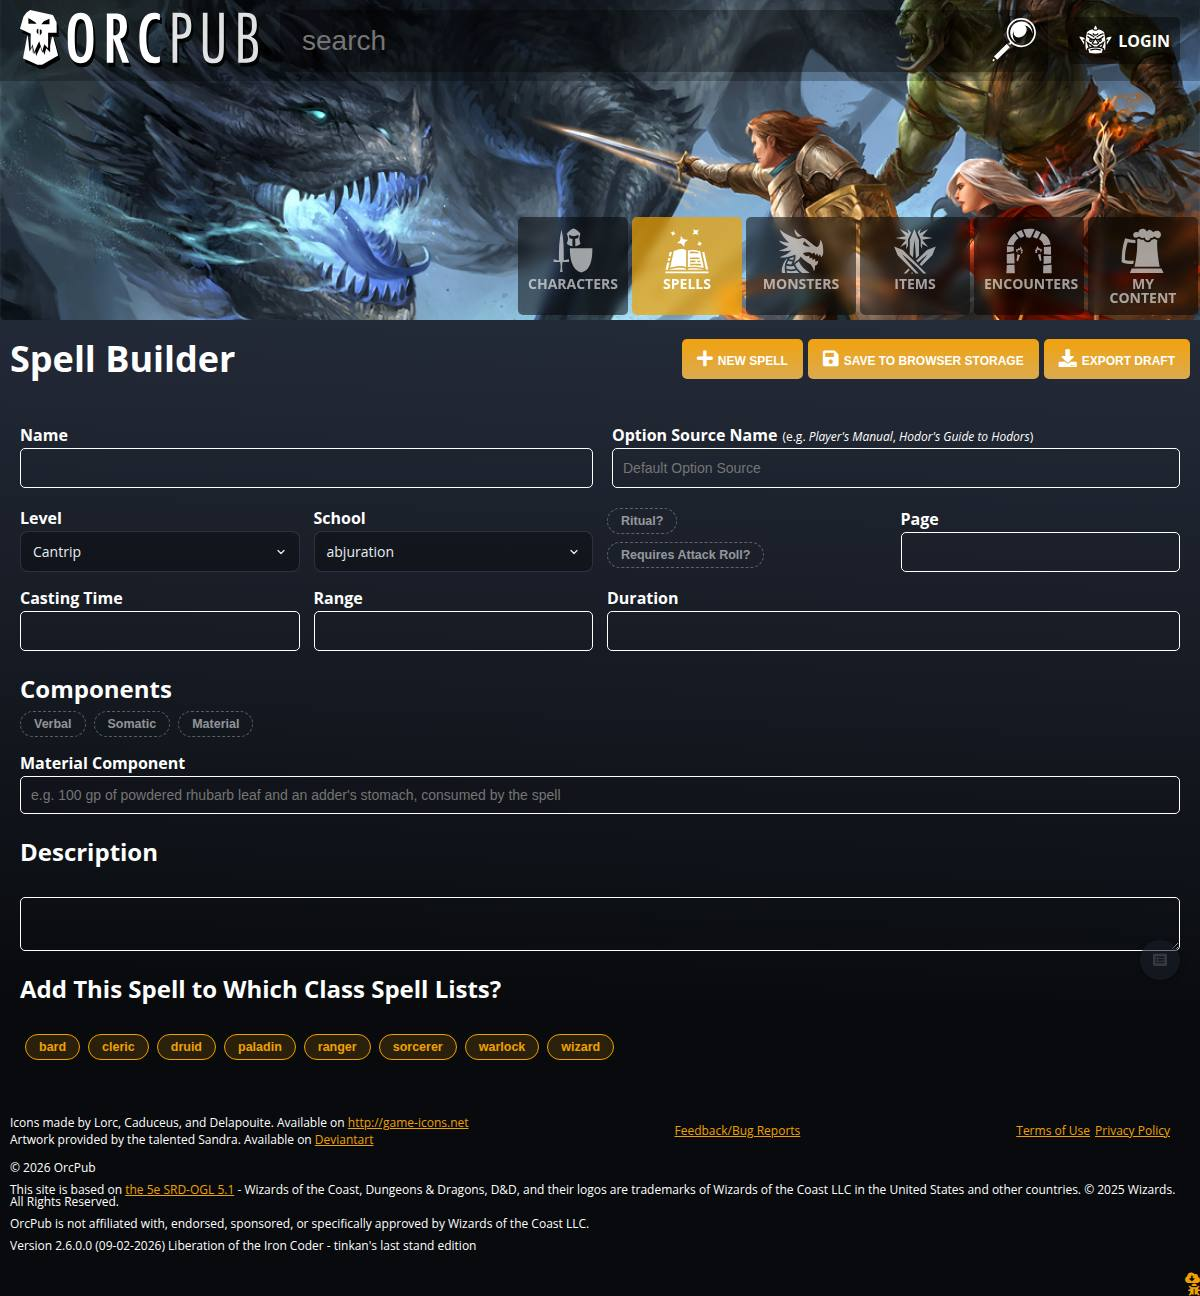
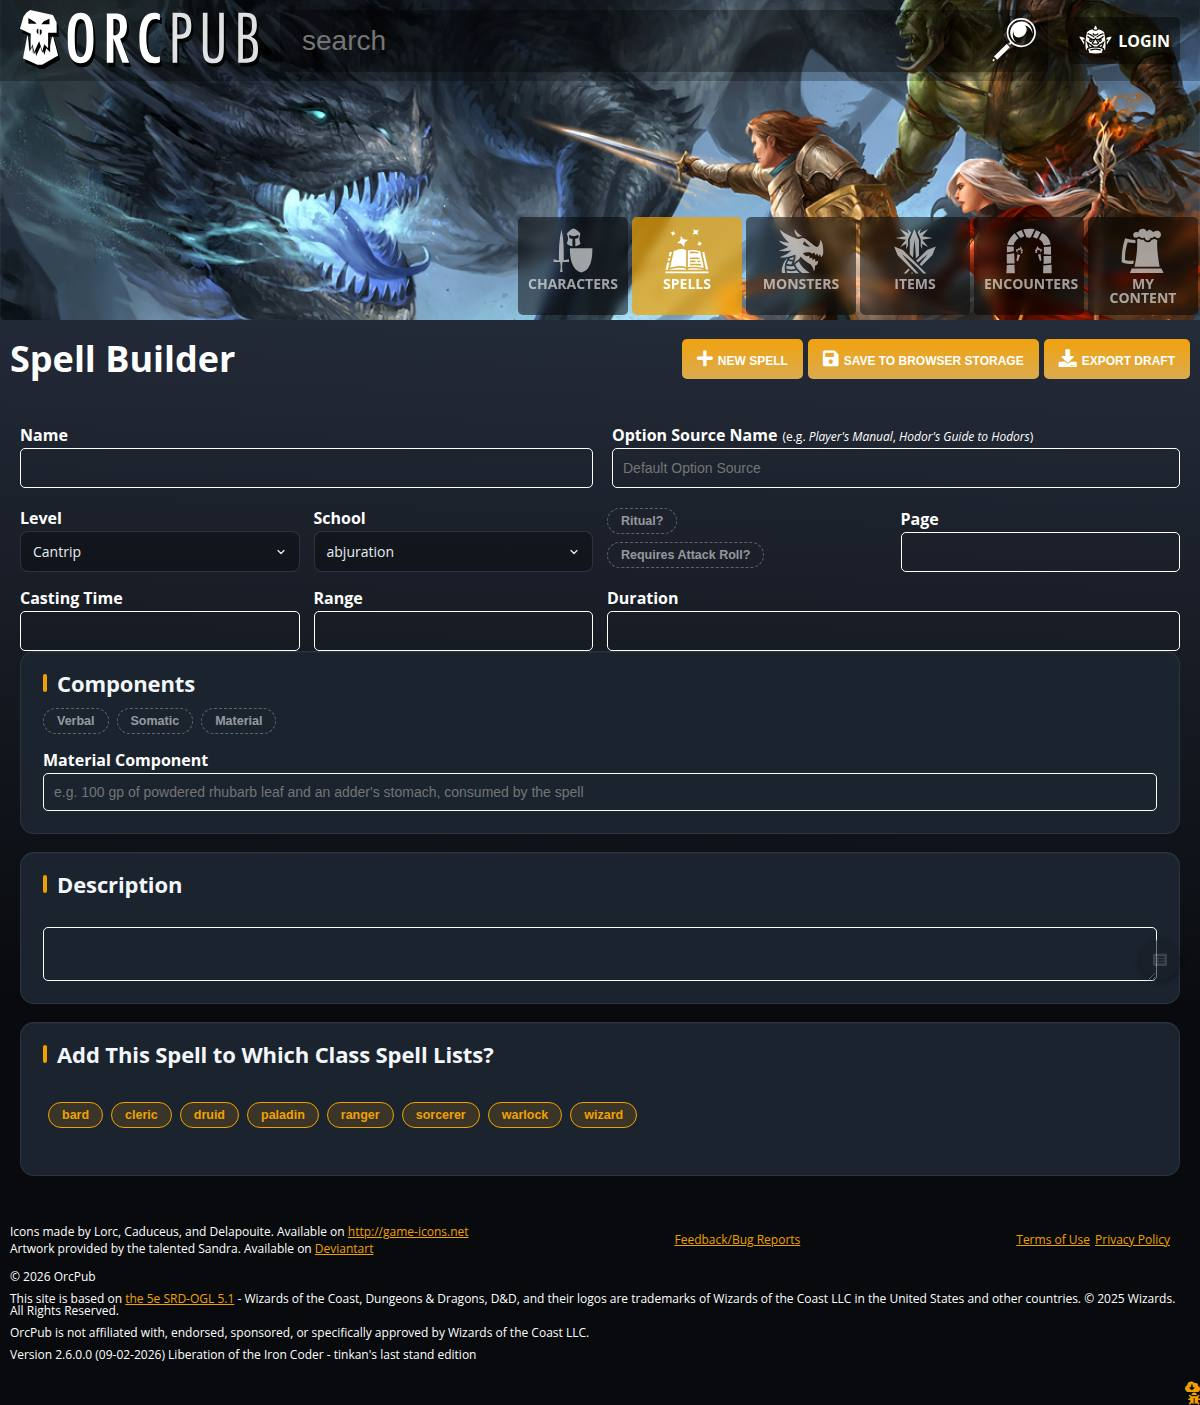
Section cards from the OMV suggestion — ported, not recreated
The suggested spell-builder page builds the form out of section cards: a flat
elevated panel per section with an amber accent tab beside the title. OMV
already ships exactly that as option_menu_views/card, so the CSS is ported
verbatim (accent as a var, as with select-menu) and a titled :section renders
through it. No schema change — :section "Components" already existed.

The untitled lead group stays plain. In the mock the identity and stat fields
sit above the cards, and wrapping those too would make the form a stack of
boxes.

The chrome was deliberately NOT copied: sticky toolbar, header band with the
name as a display input, summary line, "Save target" badge, info popovers, the
grid/pills layout switch. Those are page-level design decisions that belong
with the redesign branch rather than being smuggled in through a form
framework.

It costs height, which the mock proposes on purpose: spell 1242px -> 1405px on
desktop, 1742px -> 1899px at 390px.

Two process notes:

- lein garden FAILED and I read past it. The command was piped through tail -1,
  so "Subprocess failed (exit code: 1)" scrolled by while fig:build and the
  entire e2e suite then ran green against STALE CSS — the cards did not render
  and every test still passed. Garden's exit code has to be checked, or a CSS
  change can look like it works while never having compiled.
- The failure itself: [:.bf-section:not(.opt-section)] is not valid Clojure —
[…]

diff --git a/test/e2e/lib.js b/test/e2e/lib.js
@@ -61,7 +61,9 @@ async function controlFor(page, labelPrefix) {
     for (const c of document.querySelectorAll('input, select, textarea, .select-menu-btn')) {
       let n = c;
       for (let k = 0; k < 6 && n; k++, n = n.parentElement) {
-        const d = n.querySelector('.f-w-b');
+        // .opt-section-title is a section heading (the ported OMV card); a field whose only
+        // label is its section's title — Description — is found through it.
+        const d = n.querySelector('.f-w-b, .opt-section-title');
         if (d && d.textContent.trim()) {
           if (norm(d.textContent).startsWith(want)) return c;
           break;                       // this control's label is not the one we want

diff --git a/docs/kb/frontend-redesign-parallel-work.md b/docs/kb/frontend-redesign-parallel-work.md
@@ -197,6 +197,35 @@ field to offer a `nil` option, which is exactly the three-state tags.
 - Four separate control-count metrics had to learn `.select-menu-btn`. **That is the fourth time a
   metric here missed a representation change**; the pattern is now explicit enough to expect.
 
+### Section cards — `option_menu_views/card`, done 2026-09-06
+
+A suggested spell-builder page (an OMV-centric mock) builds the whole form out of **section cards**:
+a flat elevated panel per section with an amber accent tab beside the title. OMV already ships that
+as `card` → `.opt-section` / `.opt-section-head` / `.opt-section-accent` / `.opt-section-title`, so
+the CSS is **ported verbatim** (accent as a var, as before) and a titled `:section` renders through
+it. No schema change: `:section "Components"` already existed.
+
+The untitled lead group stays plain. In the mock the identity and stat fields sit above the cards,
+and wrapping those too would make the form a stack of boxes.
+
+**The chrome was deliberately not copied** — sticky toolbar, header band with the name as a display
+input, summary line, "Save target" badge, info popovers, the grid/pills layout switch. Those are
+page-level design decisions that belong with the redesign branch, not smuggled in through a form
+framework.
+
+It costs height: the spell form went 1242px → **1405px** desktop, 1742px → **1899px** at 390px.
+That is the cards' padding and margins, and it is the trade the mock proposes on purpose.
+
+Two process notes from doing it:
+
+- **`lein garden` failed and I read past it.** The command was piped through `tail -1`, so
+  "Subprocess failed (exit code: 1)" scrolled by while `fig:build` and the whole e2e suite ran green
+  against **stale CSS** — the cards simply did not render and every test still passed. Garden's exit
+  code needs checking, or a CSS change can appear to work while never having compiled.
+- The failure itself: `[:.bf-section:not(.opt-section)]` is not valid Clojure — the reader takes
+  `.opt-section` inside parens for a member expression. A `:not()` selector needs
+  `garden.selectors`, or restructuring so it is not needed (which is what happened).
+
 **Not adopted yet:** `option-menu` for `:multi-enum` and for options-from-a-subscription. Chips are
 adequate for three classes, and the encounter builder needs the vector-rows work first.
 
